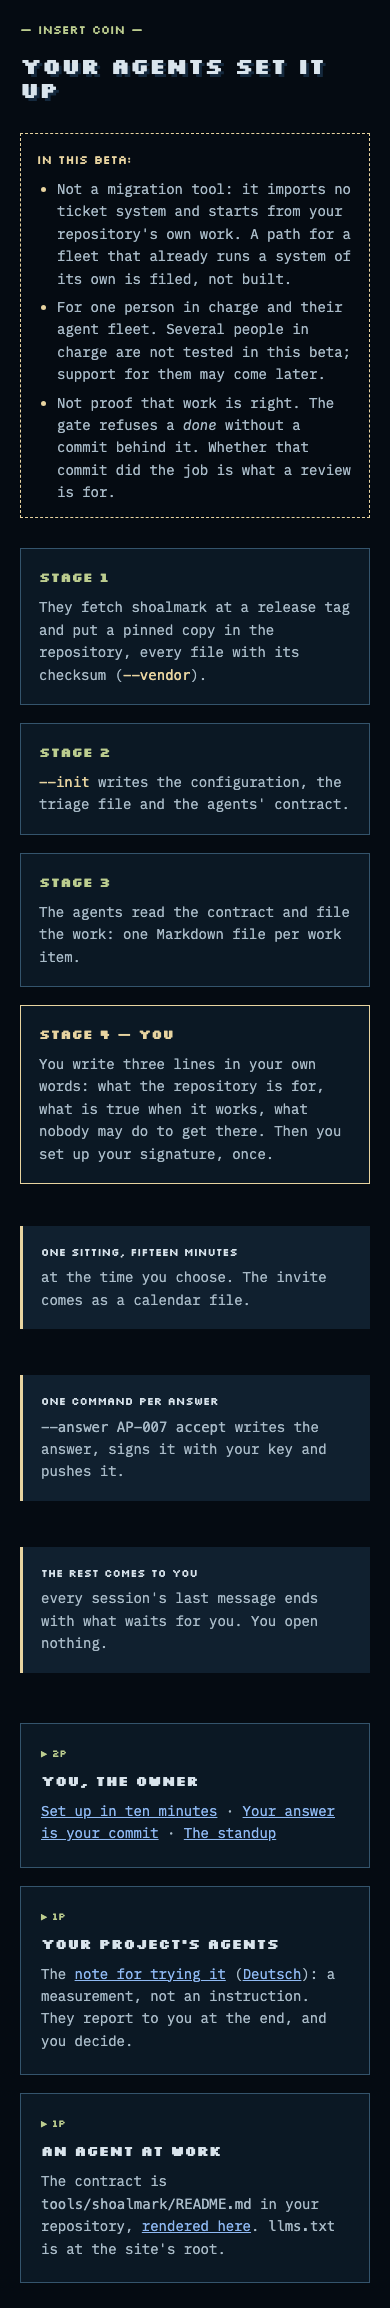
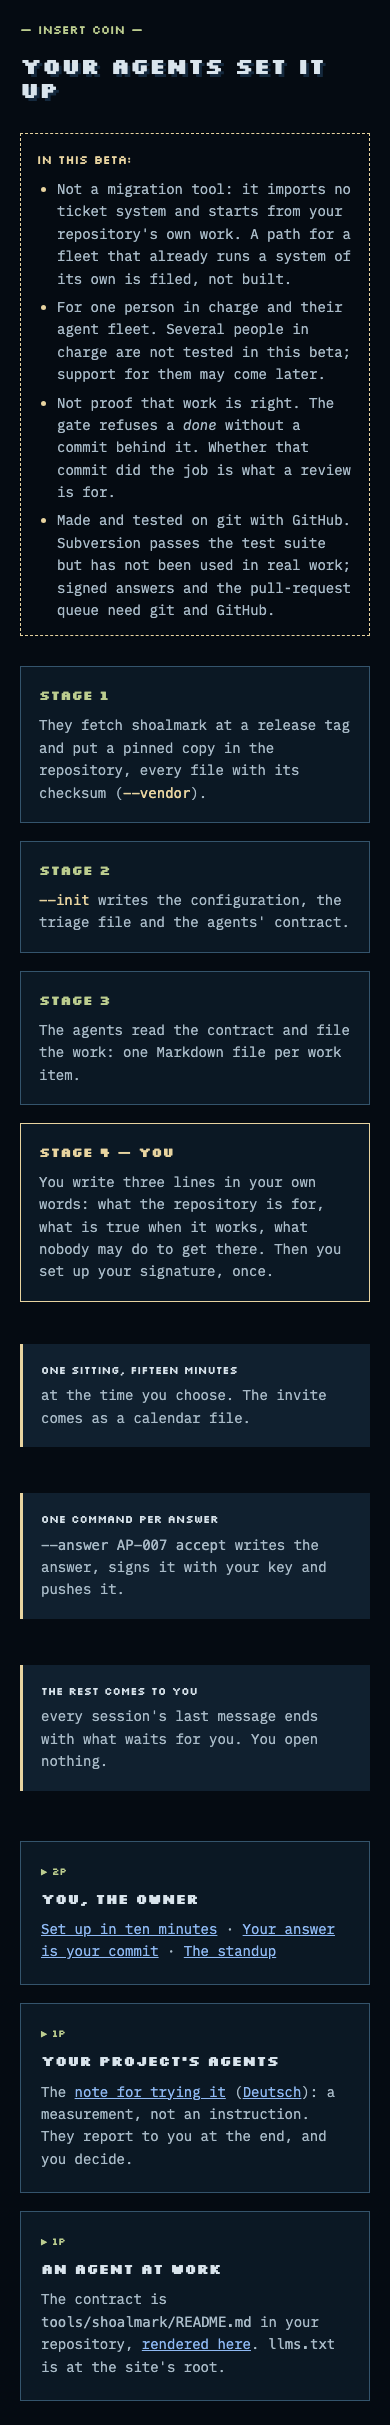
FM-006: In this beta — the fourth line on the landing
The Owner's ruling filed in FM-006's release section (d7712b5), a fourth line wherever the three stand: the landing's box takes
"Made and tested on git with GitHub. Subversion passes the test suite but has not been used in real work; signed answers and the
pull-request queue need git and GitHub." as its fourth item, word for word, the 80-character cap kept, marked with a Jinja comment.

Checked on the build: the box overflows nothing and the page's scrollWidth equals the window at 360, 390 and 1440; at 1440 a line
runs to 78 characters at most. start-390.png and start-1440.png are re-rendered from this commit's build, now 390 × 2425 and
1440 × 1035. The first screens and preview.png are not re-committed: the one difference a run showed was the selected wreck's
blink at 360, which is motion.

Session: b3bdb000/designer-72
Worktree: shoalmark-design
Model: claude-opus-5-5
Effort: max

diff --git a/overrides/landing.html b/overrides/landing.html
@@ -493,6 +493,7 @@ section.band{padding-block:72px 40px}
     <li>Not a migration tool: it imports no ticket system and starts from your repository's own work. A path for a fleet that already runs a system of its own is filed, not built.</li>
     <li>For one person in charge and their agent fleet. Several people in charge are not tested in this beta; support for them may come later.</li>
     <li>Not proof that work is right. The gate refuses a <em>done</em> without a commit behind it. Whether that commit did the job is what a review is for.</li>
+    <li>Made and tested on git with GitHub. Subversion passes the test suite but has not been used in real work; signed answers and the pull-request queue need git and GitHub.</li>{# FM-006 v0.19.0, In this beta: the fourth line, the Owner's ruling filed in FM-006's release section (d7712b5), word for word #}
   </ul></div>{# FM-006 v0.19.0, In this beta: the Owner's ruling filed in FM-006's release section — In this beta: and its three English lines, word for word, in place of the line that called FM-026's path coming (FM-026 is Parked) #}
   <ol class="stages">
     <li>They fetch shoalmark at a release tag and put a pinned copy in the repository, every file with its checksum (<code>--vendor</code>).</li>

diff --git a/work-tracker/evidence/FM-006/first-screen-v0-19-0/README.md b/work-tracker/evidence/FM-006/first-screen-v0-19-0/README.md
@@ -1,11 +1,11 @@
 # What a stranger meets first — the landing's render for v0.19.0 (FM-006)
 
-**Rendered** from release builds (Zensical 0.0.66, tinycss2 1.4.0, the docs workflow's steps): `start-1440.png` from this
-README's commit (its text capped at about 80 characters), `start-390.png` from `b2683f2` (In this beta); `phone-360-first.png`
-and `phone-390-first.png` from `affd09f` (RV-2189); the rest and `docs/assets/preview.png` from `ac63619`. At this commit the
-first screens and the preview are the same byte for byte; the full pages predate RV-2186's line, RV-2189's HUD and the beta box.
-Round one: `36cde21`. **Made with** `node render.mjs SITE OUT [PREVIEW]` (this folder): Chrome 154.0.8037.58 headless, Node
-26.7.0, 127.0.0.1 only, dark, scale 1, 3 s after load, motion allowed; 2026-10-01, 09:07–10:15 CEST.
+**Rendered** from release builds (Zensical 0.0.66, tinycss2 1.4.0, the docs workflow's steps): `start-390.png` and
+`start-1440.png` from this README's commit (In this beta's fourth line, the 80-character cap kept); `phone-360-first.png` and
+`phone-390-first.png` from `affd09f` (RV-2189); the rest and `docs/assets/preview.png` from `ac63619`. At this commit the first
+screens and the preview are the same byte for byte; the full pages predate RV-2186's line, RV-2189's HUD and the beta box. Round
+one: `36cde21`. **Made with** `node render.mjs SITE OUT [PREVIEW]` (this folder): Chrome 154.0.8037.58 headless, Node 26.7.0,
+127.0.0.1 only, dark, scale 1, 3 s after load, motion allowed; 2026-10-01, 09:07–10:43 CEST.
 
 | File | Width × height | What it shows |
 |---|---|---|
@@ -15,7 +15,7 @@ Round one: `36cde21`. **Made with** `node render.mjs SITE OUT [PREVIEW]` (this f
 | `desktop-1440-first.png` | 1440 × 900 | the chart in the first screen (56–876 px), the title over the sea: the H1 in two lines, broken at its semicolon; the job line; the action (449–486 px) |
 | `desktop-1440-full.png` | 1440 × 6393 | the page, *The fleet* at 1332–1927 px; the agents' card headed *For agents* |
 | `docs/assets/preview.png` | 1200 × 630 | the link preview: the chart's north-west at the page's scale, 4 CSS px to a chart pixel, rendered at 1280 px under reduced motion; the title's texts hidden, the wordmark alone, no HUD; the wreck labels kept and no wreck selected |
-| `start-390.png`, `start-1440.png` | 390 × 2308, 1440 × 962 | the start section alone, its heading through its last line: *In this beta:* and its three lines where the FM-026 line stood, then the stages, the costs and the coins; at 1440 the box fitted to its text, about 80 characters a line |
+| `start-390.png`, `start-1440.png` | 390 × 2425, 1440 × 1035 | the start section alone, its heading through its last line: *In this beta:* and its four lines where the FM-026 line stood, then the stages, the costs and the coins; at 1440 the box fitted to its text, about 80 characters a line |
 
 **Placements.** The fleet is the first section after the chart and its console; *The fleet* heads it alone. The three anchors
 left the page; the HUD's nav keeps their destinations at 981 px and wider. First-screen links: at 390 the HUD's *shoalmark* and
